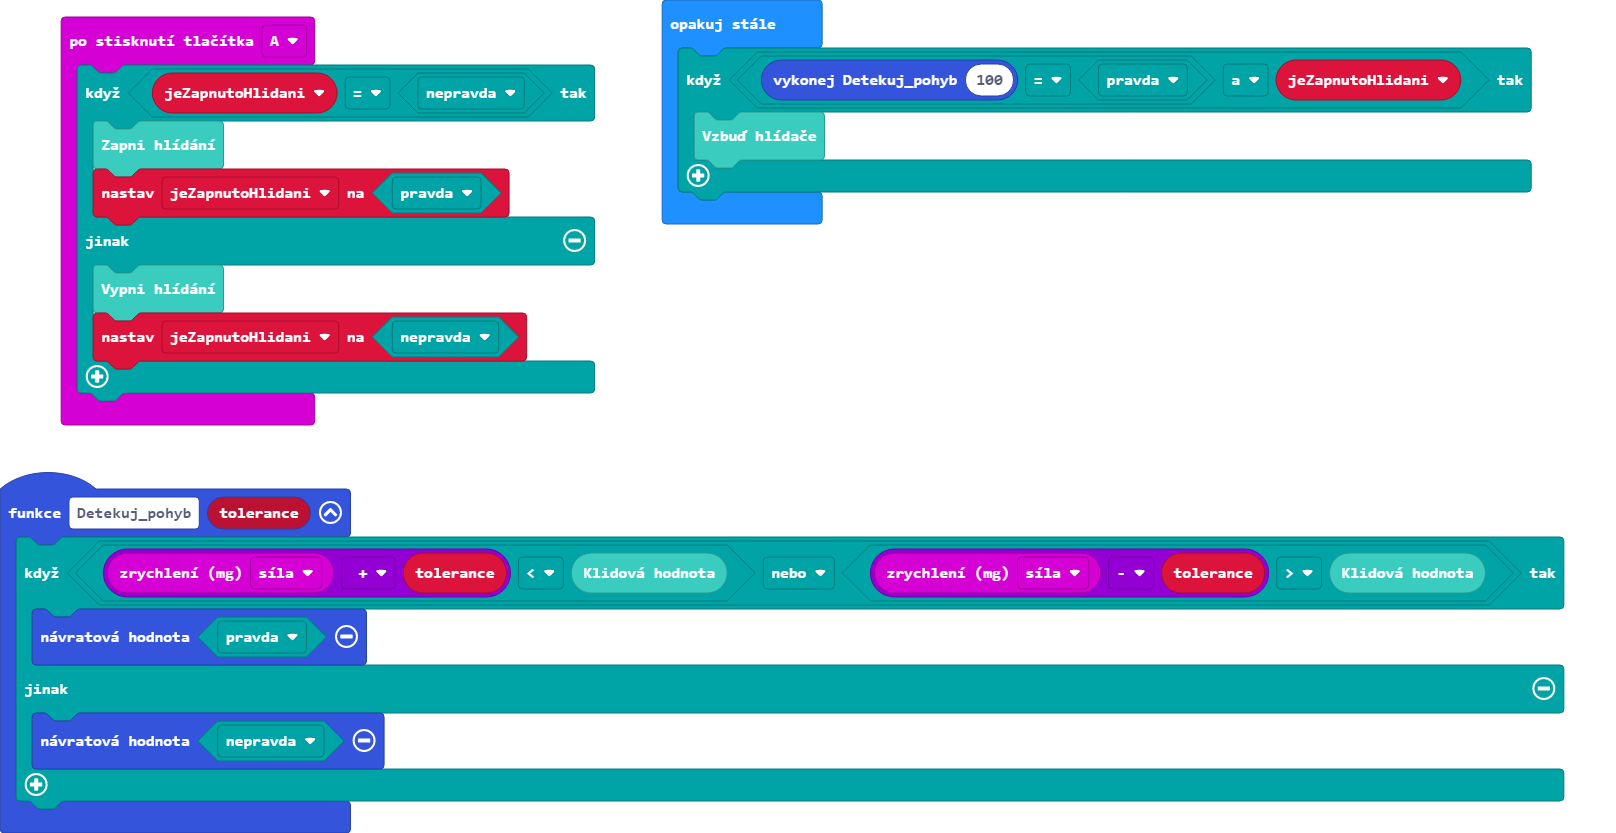
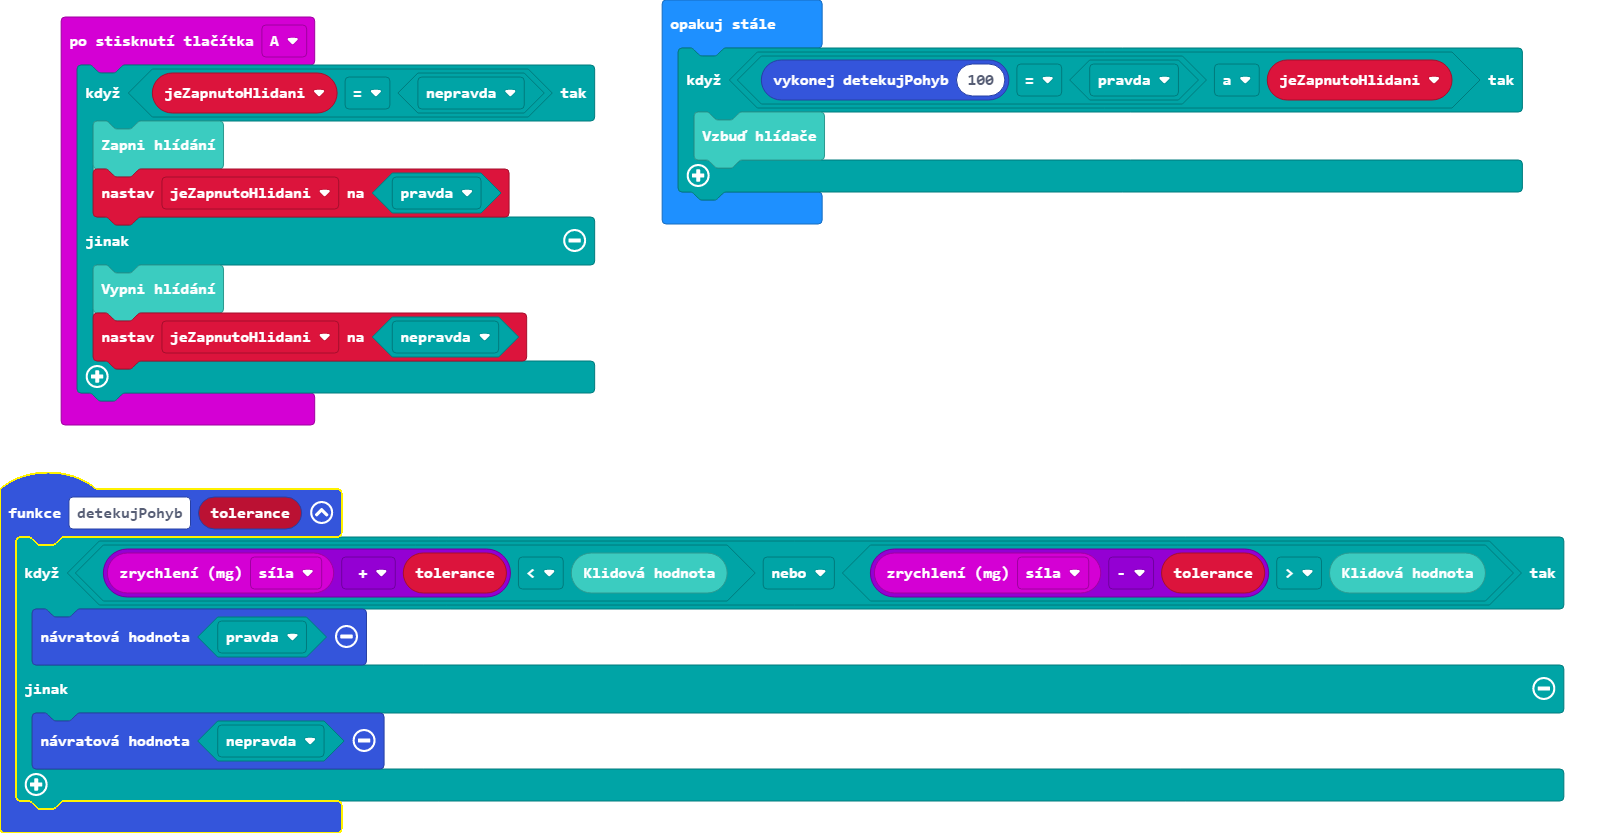
Aktualizovat pxt.json, main.blocks, main.ts, mikado.ts

diff --git a/main.ts b/main.ts
@@ -1,11 +1,4 @@
 let jeZapnutoHlidani = false
-function Detekuj_pohyb (tolerance: number) {
-    if (input.acceleration(Dimension.Strength) + tolerance < Mikado.KlidovaHodnota() || input.acceleration(Dimension.Strength) - tolerance > Mikado.KlidovaHodnota()) {
-        return true
-    } else {
-        return false
-    }
-}
 input.onButtonPressed(Button.A, function () {
     if (jeZapnutoHlidani == false) {
         Mikado.ZapnoutHlidani()
@@ -15,8 +8,15 @@ input.onButtonPressed(Button.A, function () {
         jeZapnutoHlidani = false
     }
 })
+function detekujPohyb (tolerance: number) {
+    if (input.acceleration(Dimension.Strength) + tolerance < Mikado.KlidovaHodnota() || input.acceleration(Dimension.Strength) - tolerance > Mikado.KlidovaHodnota()) {
+        return true
+    } else {
+        return false
+    }
+}
 basic.forever(function () {
-    if (Detekuj_pohyb(100) == true && jeZapnutoHlidani) {
+    if (detekujPohyb(100) == true && jeZapnutoHlidani) {
         Mikado.VzbuditHlidace()
     }
 })

diff --git a/mikado.ts b/mikado.ts
@@ -17,8 +17,6 @@ namespace Mikado {
     //% block="Zapni hlídání"
 
     export function ZapnoutHlidani(): void {
-        music.setBuiltInSpeakerEnabled(true)
-        basic.pause(2500)
         basic.showIcon(IconNames.Asleep)
         isGuarding = true
     }
@@ -29,7 +27,6 @@ namespace Mikado {
     //% block="Vypni hlídání"
 
     export function VypnoutHlidani(): void {
-        music.setBuiltInSpeakerEnabled(false)
         basic.showIcon(IconNames.Happy)
         isGuarding = false
 
